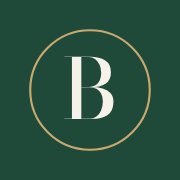
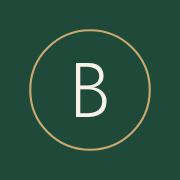
Use a single typeface throughout
Drop Bodoni Moda and the system-font minus-sign fallback; everything is
now Jost, with hierarchy from size and weight (light figures, regular
text, medium emphasis) and no decorative italics. Icon re-cut to match.

Claude-Session: https://claude.ai/code/session_01MypCNjPqzLAu8YztrtTgV7

Changed region(s): [[0.3611, 0.3056, 0.6389, 0.6667]]

diff --git a/index.html b/index.html
@@ -16,15 +16,13 @@
 <link rel="apple-touch-icon" href="apple-touch-icon.png">
 <link rel="preconnect" href="https://fonts.googleapis.com">
 <link rel="preconnect" href="https://fonts.gstatic.com" crossorigin>
-<link href="https://fonts.googleapis.com/css2?family=Bodoni+Moda:ital,opsz,wght@0,6..96,400..600;1,6..96,400..500&family=Jost:wght@400;500;600&display=swap" rel="stylesheet">
+<link href="https://fonts.googleapis.com/css2?family=Jost:wght@300;400;500&display=swap" rel="stylesheet">
 <style>
   /* ==================================================================
      THEME — quiet luxury. Ivory paper, ink, racing green, champagne gold.
-     Bodoni Moda for display and figures, Jost for everything else.
+     One typeface (Jost); hierarchy comes from size and weight.
      Follows the phone's light / dark setting.
      ================================================================== */
-  /* Bodoni draws the minus as a hairline; take signs from a sturdier system face. */
-  @font-face{ font-family: "Sign"; src: local("Helvetica Neue"), local("HelveticaNeue"), local("Helvetica"), local("Arial"), local("Roboto"), local("DejaVu Sans"); unicode-range: U+2212, U+002B, U+00B1; }
   :root{
     color-scheme: light;
     --bg: #f6f2ea;
@@ -54,7 +52,6 @@
     --series-2: #a8742a;        /* comparison: old gold */
     --series-muted: rgba(23, 21, 15, 0.16);
 
-    --f-display: 'Sign', 'Bodoni Moda', 'Didot', 'Bodoni 72', Georgia, serif;
     --f-body: 'Jost', 'Futura', 'Avenir Next', system-ui, sans-serif;
 
     --radius: 14px;
@@ -103,7 +100,7 @@
     padding-bottom: calc(var(--tabbar-h) + var(--safe-b) + 28px);
     overflow-x: hidden;
   }
-  h1,h2,h3{ font-family: var(--f-display); margin: 0; font-weight: 500; letter-spacing: -0.005em; }
+  h1,h2,h3{ font-family: var(--f-body); margin: 0; font-weight: 400; letter-spacing: -0.01em; }
   button{ font: inherit; color: inherit; }
   .num{ font-variant-numeric: lining-nums tabular-nums; }
   :focus-visible{ outline: 2px solid var(--accent); outline-offset: 2px; }
@@ -113,7 +110,7 @@
   /* ---------- masthead ---------- */
   .topbar{ display: flex; align-items: center; justify-content: space-between; gap: 12px; padding: calc(18px + var(--safe-t)) 0 6px; }
   .brand{ display: flex; align-items: center; gap: 12px; min-width: 0; }
-  .brand .mono{ width: 34px; height: 34px; border-radius: 50%; border: 1px solid var(--gold); display: grid; place-items: center; font-family: var(--f-display); font-size: 0.95rem; font-weight: 500; color: var(--accent); flex-shrink: 0; letter-spacing: 0; }
+  .brand .mono{ width: 34px; height: 34px; border-radius: 50%; border: 1px solid var(--gold); display: grid; place-items: center; font-size: 0.95rem; font-weight: 400; color: var(--accent); flex-shrink: 0; letter-spacing: 0; }
   .brand h1{ font-size: 1.02rem; font-weight: 500; letter-spacing: 0.32em; text-transform: uppercase; white-space: nowrap; line-height: 1; }
   .brand small{ display: block; font-size: 0.66rem; letter-spacing: 0.22em; text-transform: uppercase; color: var(--text-faint); margin-top: 6px; }
   .pill{ display: inline-flex; align-items: center; gap: 6px; padding: 4px 10px; border-radius: 999px; border: 1px solid var(--border); font-size: 0.72rem; color: var(--text-dim); white-space: nowrap; letter-spacing: 0.04em; }
@@ -124,10 +121,10 @@
 
   .greeting{ padding: 26px 0 8px; }
   .greeting .eyebrow{ margin-bottom: 10px; }
-  .greeting h2{ font-size: 2.3rem; line-height: 1.08; font-weight: 400; }
-  .greeting h2 em{ font-style: italic; }
+  .greeting h2{ font-size: 2.1rem; line-height: 1.12; font-weight: 300; }
+  .greeting h2 em{ font-style: normal; font-weight: 400; }
   .quote{ margin: 14px 0 22px; padding-left: 14px; border-left: 1px solid var(--gold); }
-  .quote q{ display: block; font-family: var(--f-display); font-style: italic; font-size: 1.05rem; line-height: 1.4; color: var(--text-dim); quotes: "“" "”"; }
+  .quote q{ display: block; font-size: 1rem; line-height: 1.4; color: var(--text-dim); quotes: "“" "”"; }
   .quote cite{ display: block; margin-top: 6px; font-style: normal; font-size: 0.66rem; letter-spacing: 0.18em; text-transform: uppercase; color: var(--text-faint); }
 
   /* ---------- cards ---------- */
@@ -145,15 +142,15 @@
   .strip{ display: grid; grid-template-columns: repeat(3, 1fr); border-top: 1px solid var(--border); border-bottom: 1px solid var(--border); margin: 0 0 18px; }
   .strip div{ padding: 12px 4px; text-align: center; }
   .strip div + div{ border-left: 1px solid var(--border); }
-  .strip b{ display: block; font-family: var(--f-display); font-size: 1.45rem; font-weight: 500; line-height: 1.1; }
+  .strip b{ display: block; font-size: 1.4rem; font-weight: 300; line-height: 1.1; }
   .strip span{ font-size: 0.68rem; letter-spacing: 0.08em; text-transform: uppercase; color: var(--text-faint); }
 
   /* position card */
   .pos-top{ display: flex; align-items: flex-end; justify-content: space-between; gap: 12px; }
-  .pos-big{ font-family: var(--f-display); font-size: 3.2rem; line-height: 0.95; font-weight: 400; }
+  .pos-big{ font-size: 3.1rem; line-height: 1; font-weight: 300; letter-spacing: -0.02em; }
   .pos-sub{ color: var(--text-dim); font-size: 0.86rem; margin-top: 6px; }
   .pos-rank{ text-align: right; }
-  .pos-rank b{ display: block; font-family: var(--f-display); font-size: 1.9rem; font-weight: 500; line-height: 1; }
+  .pos-rank b{ display: block; font-size: 1.8rem; font-weight: 300; line-height: 1; }
   .pos-rank span{ font-size: 0.72rem; color: var(--text-faint); }
   .kv{ display: grid; grid-template-columns: repeat(3, 1fr); gap: 0; margin-top: 18px; border-top: 1px solid var(--border); }
   .kv div{ padding: 12px 0 0; }
@@ -174,26 +171,26 @@
 
   .line-stat{ margin-top: 16px; }
   .line-stat .top{ display: flex; justify-content: space-between; font-size: 0.82rem; color: var(--text-dim); margin-bottom: 7px; }
-  .nudge{ margin-top: 16px; font-family: var(--f-display); font-style: italic; font-size: 1rem; color: var(--text-dim); line-height: 1.4; }
-  .nudge b{ font-style: normal; color: var(--text); font-weight: 600; }
+  .nudge{ margin-top: 16px; font-size: 0.92rem; color: var(--text-dim); line-height: 1.4; }
+  .nudge b{ color: var(--text); font-weight: 500; }
   .forge{ margin-top: 12px; font-size: 0.8rem; color: var(--text-dim); }
   .forge .bar{ margin-top: 6px; }
 
   /* people */
-  .av{ width: 40px; height: 40px; border-radius: 50%; flex-shrink: 0; display: grid; place-items: center; font-family: var(--f-display); font-weight: 500; font-size: 0.98rem; color: var(--text); background: var(--surface-2); border: 1px solid var(--border); letter-spacing: 0.02em; }
+  .av{ width: 40px; height: 40px; border-radius: 50%; flex-shrink: 0; display: grid; place-items: center; font-weight: 500; font-size: 0.98rem; color: var(--text); background: var(--surface-2); border: 1px solid var(--border); letter-spacing: 0.02em; }
   .av.lg{ width: 56px; height: 56px; font-size: 1.35rem; }
   .av.sm{ width: 32px; height: 32px; font-size: 0.82rem; }
-  .av.mark{ color: var(--good); font-family: var(--f-body); font-size: 0.85rem; }
+  .av.mark{ color: var(--good); font-size: 0.85rem; }
   .me-top{ display: flex; align-items: center; gap: 14px; }
-  .me-name{ font-family: var(--f-display); font-weight: 500; font-size: 1.6rem; line-height: 1.05; }
+  .me-name{ font-weight: 400; font-size: 1.5rem; line-height: 1.05; }
   .me-sub{ color: var(--text-dim); font-size: 0.82rem; margin-top: 3px; }
-  .big-pct{ font-family: var(--f-display); font-weight: 500; font-size: 2rem; line-height: 1; }
+  .big-pct{ font-weight: 300; font-size: 2rem; line-height: 1; }
   .badge{ display: inline-block; font-size: 0.64rem; font-weight: 500; letter-spacing: 0.16em; text-transform: uppercase; padding: 2px 9px; border-radius: 999px; border: 1px solid var(--gold); color: var(--gold); }
   .badge.none{ border-color: var(--border-strong); color: var(--text-faint); }
   .stat-grid{ display: grid; grid-template-columns: repeat(3, 1fr); gap: 0; margin-top: 16px; border-top: 1px solid var(--border); }
   .stat{ padding: 12px 10px 10px 0; min-width: 0; border-bottom: 1px solid var(--border); }
   .stat:not(:nth-child(3n+1)){ padding-left: 10px; border-left: 1px solid var(--border); }
-  .stat b{ display: block; font-family: var(--f-display); font-size: 1.3rem; font-weight: 500; white-space: nowrap; overflow: hidden; text-overflow: ellipsis; }
+  .stat b{ display: block; font-size: 1.2rem; font-weight: 400; white-space: nowrap; overflow: hidden; text-overflow: ellipsis; }
   .stat span{ font-size: 0.7rem; color: var(--text-faint); }
 
   .btn-row{ display: flex; gap: 8px; margin-top: 18px; }
@@ -217,7 +214,7 @@
   .award + .award, div.award:nth-child(2){ padding-left: 14px; border-left: 1px solid var(--border); }
   .award .t{ font-size: 0.64rem; letter-spacing: 0.18em; text-transform: uppercase; color: var(--text-faint); }
   .award.win .t{ color: var(--gold); }
-  .award .n{ font-family: var(--f-display); font-size: 1.35rem; font-weight: 500; margin-top: 6px; white-space: nowrap; overflow: hidden; text-overflow: ellipsis; }
+  .award .n{ font-size: 1.2rem; font-weight: 400; margin-top: 6px; white-space: nowrap; overflow: hidden; text-overflow: ellipsis; }
   .award .v{ font-size: 0.84rem; margin-top: 2px; }
 
   /* tables / standings */
@@ -226,7 +223,7 @@
   .rows > .row:first-child{ border-top: 0; }
   .row.me{ background: var(--accent-dim); border-radius: 10px; padding-left: 8px; padding-right: 8px; border-top-color: transparent; }
   .row.me + .row{ border-top-color: transparent; }
-  .row .rk{ font-family: var(--f-display); font-weight: 500; font-size: 1.25rem; text-align: center; color: var(--text-faint); }
+  .row .rk{ font-weight: 300; font-size: 1.15rem; text-align: center; color: var(--text-faint); }
   .row .rk.r1{ color: var(--gold); }
   .row .av{ width: 36px; height: 36px; font-size: 0.86rem; }
   .row .who{ min-width: 0; }
@@ -234,7 +231,7 @@
   .row .sub{ display: block; font-size: 0.76rem; color: var(--text-faint); white-space: nowrap; overflow: hidden; text-overflow: ellipsis; }
   .row .sub .bar{ margin-top: 7px; }
   .row .val{ text-align: right; white-space: nowrap; }
-  .row .val b{ display: block; font-family: var(--f-display); font-weight: 500; font-size: 1.3rem; line-height: 1.1; }
+  .row .val b{ display: block; font-weight: 400; font-size: 1.15rem; line-height: 1.1; }
   .row .val small{ font-size: 0.74rem; color: var(--text-faint); }
   .mv{ font-size: 0.66rem; font-weight: 500; }
   .mv.up{ color: var(--good); } .mv.down{ color: var(--bad); } .mv.new{ color: var(--text-faint); }
@@ -283,7 +280,7 @@
   .tip .r{ display: grid; grid-template-columns: 12px 1fr auto; gap: 6px; align-items: center; line-height: 1.6; }
   .tip .r i{ display: block; height: 2px; border-radius: 2px; }
   .tip .r span{ color: var(--text-dim); white-space: nowrap; overflow: hidden; text-overflow: ellipsis; }
-  .tip .r b{ font-weight: 600; }
+  .tip .r b{ font-weight: 500; }
   .legend{ display: flex; flex-wrap: wrap; gap: 6px; margin-top: 14px; }
   .legend button{ display: inline-flex; align-items: center; gap: 6px; padding: 4px 11px; border-radius: 999px; cursor: pointer; background: transparent; border: 1px solid var(--border); font-size: 0.78rem; color: var(--text-dim); }
   .legend button i{ width: 14px; height: 2px; border-radius: 2px; background: var(--series-muted); }
@@ -326,7 +323,7 @@
   @media (min-width: 640px){ dialog.sheet{ margin: auto; border-radius: 20px; border: 1px solid var(--border); } }
   .sheet-in{ padding: 10px 20px calc(24px + var(--safe-b)); overflow-y: auto; max-height: 92vh; }
   .grab{ width: 38px; height: 4px; border-radius: 4px; background: var(--border-strong); margin: 0 auto 16px; }
-  .sheet-in h2{ font-size: 1.85rem; font-weight: 500; margin-bottom: 6px; line-height: 1.1; }
+  .sheet-in h2{ font-size: 1.7rem; font-weight: 400; margin-bottom: 6px; line-height: 1.1; }
   .sheet-in .lead{ color: var(--text-dim); font-size: 0.9rem; margin: 0 0 18px; }
 
   /* forms */
@@ -346,7 +343,7 @@
     font: inherit; font-size: 16px; outline: none;
   }
   input:focus, select:focus{ border-color: var(--accent); box-shadow: 0 0 0 3px var(--accent-dim); }
-  input.big{ font-family: var(--f-display); font-size: 2.3rem; font-weight: 500; text-align: center; min-height: 68px; }
+  input.big{ font-size: 2.1rem; font-weight: 300; text-align: center; min-height: 68px; }
   .unit-in{ position: relative; flex: 1; }
   .unit-in em{ position: absolute; right: 14px; top: 50%; transform: translateY(-50%); color: var(--text-faint); font-style: normal; pointer-events: none; }
   .two{ display: flex; gap: 8px; }
@@ -360,21 +357,21 @@
   .who-btn{ display: flex; align-items: center; gap: 12px; padding: 10px 12px; border-radius: 12px; background: transparent; border: 1px solid var(--border); cursor: pointer; text-align: left; width: 100%; font-weight: 500; }
   .who-btn small{ margin-left: auto; color: var(--text-faint); font-weight: 400; }
   .choice{ display: grid; grid-template-columns: 1fr 1fr; gap: 10px; }
-  .choice button{ padding: 24px 12px; border-radius: 14px; background: transparent; border: 1px solid var(--border-strong); cursor: pointer; font-family: var(--f-display); font-weight: 500; font-size: 1.45rem; }
-  .choice button span{ display: block; font-family: var(--f-body); font-size: 0.74rem; color: var(--text-faint); margin-top: 4px; }
+  .choice button{ padding: 24px 12px; border-radius: 14px; background: transparent; border: 1px solid var(--border-strong); cursor: pointer; font-weight: 400; font-size: 1.3rem; }
+  .choice button span{ display: block; font-size: 0.74rem; color: var(--text-faint); margin-top: 4px; }
   .kinds{ display: flex; flex-wrap: wrap; gap: 6px; }
   .kinds .chip{ padding: 6px 13px; font-size: 0.82rem; }
   .err{ color: var(--bad); font-size: 0.82rem; margin: -4px 0 12px; min-height: 1em; }
   .rules{ margin: 0; padding: 0; list-style: none; }
   .rules li{ display: flex; justify-content: space-between; gap: 12px; padding: 11px 0; border-top: 1px solid var(--border); font-size: 0.92rem; }
   .rules li:first-child{ border-top: 0; }
-  .rules li b{ color: var(--text); white-space: nowrap; font-family: var(--f-display); font-weight: 500; font-size: 1.15rem; }
+  .rules li b{ color: var(--text); white-space: nowrap; font-weight: 400; font-size: 1.05rem; }
 
   .toast{ position: fixed; left: 50%; bottom: calc(var(--tabbar-h) + var(--safe-b) + 18px); z-index: 60; transform: translate(-50%, 16px); opacity: 0; pointer-events: none; background: var(--text); color: var(--bg); padding: 10px 18px; border-radius: 999px; font-size: 0.88rem; max-width: calc(100vw - 32px); text-align: center; transition: opacity .2s, transform .2s; }
   .toast.on{ opacity: 1; transform: translate(-50%, 0); }
-  .loading{ display: grid; place-items: center; padding: 90px 0; color: var(--text-faint); font-family: var(--f-display); font-style: italic; font-size: 1.15rem; }
+  .loading{ display: grid; place-items: center; padding: 90px 0; color: var(--text-faint); font-size: 1rem; }
   .footer{ text-align: center; color: var(--text-faint); font-size: 0.72rem; letter-spacing: 0.08em; margin-top: 26px; line-height: 1.8; }
-  .footer em{ font-family: var(--f-display); font-size: 1rem; letter-spacing: 0; color: var(--text-dim); }
+  .footer em{ font-style: normal; color: var(--text-dim); }
 
   @media (max-width: 380px){ .greeting h2{ font-size: 2rem; } .pos-big{ font-size: 2.7rem; } }
   @media (prefers-reduced-motion: reduce){ *{ animation: none !important; transition: none !important; } }
@@ -984,7 +981,7 @@ function renderMyCard(C) {
     <div class="kv">
       <div><b class="num">${x.points}</b><span>Score</span></div>
       <div><b class="num ${tone(x.week?.pct)}">${fmtPct(x.week?.pct)}</b><span>This week</span></div>
-      <div><b class="num">${x.trainWeek}</b><span>Sessions this week</span></div>
+      <div><b class="num">${x.trainWeek}</b><span>Sessions</span></div>
     </div>
     <div class="line-stat"><div class="top"><span>Steps today</span><span class="num">${x.stepsToday == null ? "—" : fmtInt(x.stepsToday)} / ${fmtInt(goal)}</span></div>
       <div class="bar ${stepsPct >= 100 ? "hit" : ""}"><i style="width:${stepsPct}%"></i></div></div>
@@ -1800,7 +1797,7 @@ function openPointsInfo() {
       <li><span>Best week (largest % drop)</span><b>+${POINTS.perWeeklyWin}</b></li>
     </ul>
     <div class="card-h" style="margin:22px 0 6px"><h2>Milestones</h2><span class="meta">% of starting weight lost</span></div>
-    <p style="margin:0;font-family:var(--f-display);font-size:1.25rem">${MILESTONES.map(m => `${m}%`).join(" · ")}</p>
+    <p style="margin:0;font-size:1.1rem;font-weight:300">${MILESTONES.map(m => `${m}%`).join(" · ")}</p>
     <p class="faint" style="font-size:.84rem;margin-top:16px">Weeks run Monday to Sunday. A week's change is your last weigh-in that week against your last one before it. Arrows on the standings show movement over the last seven days.</p>
     <div class="btn-row"><button class="btn" data-act="close">Close</button></div>`);
 }

diff --git a/README.md b/README.md
@@ -4,8 +4,8 @@ Weigh-ins, steps and standings for the padel group. Everyone logs their own weig
 training; the app keeps a quiet, well-made record of who is doing what.
 
 **The look:** quiet luxury, like a members' club or a fine watch brand. Ivory paper and ink, one
-racing-green accent and a champagne-gold hairline; Bodoni Moda for headings and figures, Jost for
-everything else; engraved initials instead of avatars. It follows the phone's light / dark setting.
+racing-green accent and a champagne-gold hairline; a single typeface (Jost) throughout, with
+hierarchy from size and weight; engraved initials instead of avatars. It follows the phone's light / dark setting.
 
 Add `?demo` to the URL (e.g. `https://bmg.sgj.luxe/?demo`) to preview with sample players
 without touching the live data.
